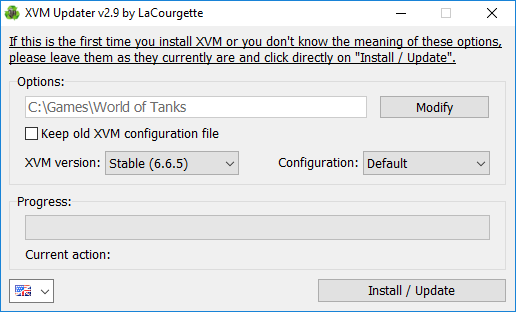
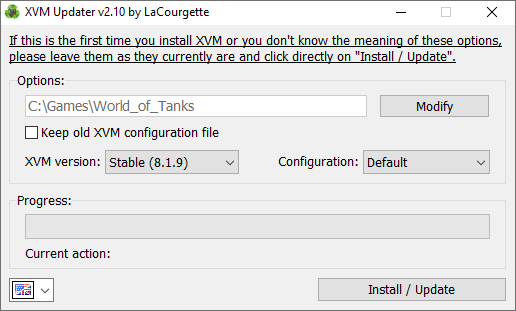
changed webserver price + new XVM Updater 2.10 screenshots

diff --git a/fr.html b/fr.html
@@ -14,7 +14,7 @@
       function download() {
         swal({
           title: "Encore une étape...",
-          html: '<p><strong>XVM Updater</strong> a besoin d\'un serveur web coutant plus de 50&nbsp;€ par an. S\'il vous plaît, si vous trouvez mon travail utile, pensez à faire un don. Merci !</p><form style="margin-top: 1em;" action="https://www.paypal.com/cgi-bin/webscr" method="post" target="_top"><input type="hidden" name="cmd" value="_s-xclick"><input type="hidden" name="hosted_button_id" value="PNFVWGBY9656W"><input type="image" src="https://www.paypalobjects.com/fr_FR/FR/i/btn/btn_donateCC_LG.gif" border="0" name="submit" alt="PayPal, le réflexe sécurité pour payer en ligne"></form>',
+          html: '<p><strong>XVM Updater</strong> a besoin d\'un serveur web coutant 30&nbsp;€ par an. S\'il vous plaît, si vous trouvez mon travail utile, pensez à faire un don. Merci !</p><form style="margin-top: 1em;" action="https://www.paypal.com/cgi-bin/webscr" method="post" target="_top"><input type="hidden" name="cmd" value="_s-xclick"><input type="hidden" name="hosted_button_id" value="PNFVWGBY9656W"><input type="image" src="https://www.paypalobjects.com/fr_FR/FR/i/btn/btn_donateCC_LG.gif" border="0" name="submit" alt="PayPal, le réflexe sécurité pour payer en ligne"></form>',
           confirmButtonText: "Télécharger",
           allowOutsideClick: true
         }).then(function() {
@@ -54,7 +54,7 @@
 
       <h1>Contribuer</h1>
       <p><strong>XVM Updater</strong> est développé uniquement durant mon temps libre. Je ne gagne rien, il n'y a même pas de pubs.</p>
-      <p>Cependant, je paye actuellement 51&nbsp;€ par an pour le serveur web qui permet d'héberger et de vérifier les fichiers d'installation d'XVM.</p>
+      <p>Cependant, je paye actuellement 30&nbsp;€ par an pour le serveur web qui permet d'héberger et de vérifier les fichiers d'installation d'XVM.</p>
       <p>Si vous le voulez, vous pouvez me donner un petit coup de pouce en faisant un don via Paypal.</p>
       <form action="https://www.paypal.com/cgi-bin/webscr" method="post" target="_top">
         <input type="hidden" name="cmd" value="_s-xclick">

diff --git a/index.html b/index.html
@@ -14,7 +14,7 @@
       function download() {
         swal({
           title: "One more step...",
-          html: '<p><strong>XVM Updater</strong> needs a web server costing more than 50&nbsp;€ per year. Please think about donating if you find my work useful. Thank you!</p><form style="margin-top: 1em;" action="https://www.paypal.com/cgi-bin/webscr" method="post" target="_top"><input type="hidden" name="cmd" value="_s-xclick"><input type="hidden" name="hosted_button_id" value="7SE683TSM678U"><input type="image" src="https://www.paypalobjects.com/en_US/i/btn/btn_donateCC_LG.gif" border="0" name="submit" alt="PayPal - The safer, easier way to pay online!"></form>',
+          html: '<p><strong>XVM Updater</strong> needs a web server costing 30&nbsp;€ per year. Please think about donating if you find my work useful. Thank you!</p><form style="margin-top: 1em;" action="https://www.paypal.com/cgi-bin/webscr" method="post" target="_top"><input type="hidden" name="cmd" value="_s-xclick"><input type="hidden" name="hosted_button_id" value="7SE683TSM678U"><input type="image" src="https://www.paypalobjects.com/en_US/i/btn/btn_donateCC_LG.gif" border="0" name="submit" alt="PayPal - The safer, easier way to pay online!"></form>',
           confirmButtonText: "Download",
           allowOutsideClick: true
         }).then(function() {
@@ -54,7 +54,7 @@
 
       <h1>Contribute</h1>
       <p><strong>XVM Updater</strong> is developed entirely during my free time. I don't earn any money with it.</p>
-      <p>However, I am currently paying 51&nbsp;€ (57&nbsp;USD) per year for the fast webserver behind my software.</p>
+      <p>However, I am currently paying 30&nbsp;€ (33&nbsp;USD) per year for the fast webserver behind my software.</p>
       <p>If you want, you can help me by donating through Paypal:</p>
       <form action="https://www.paypal.com/cgi-bin/webscr" method="post" target="_top">
         <input type="hidden" name="cmd" value="_s-xclick">
